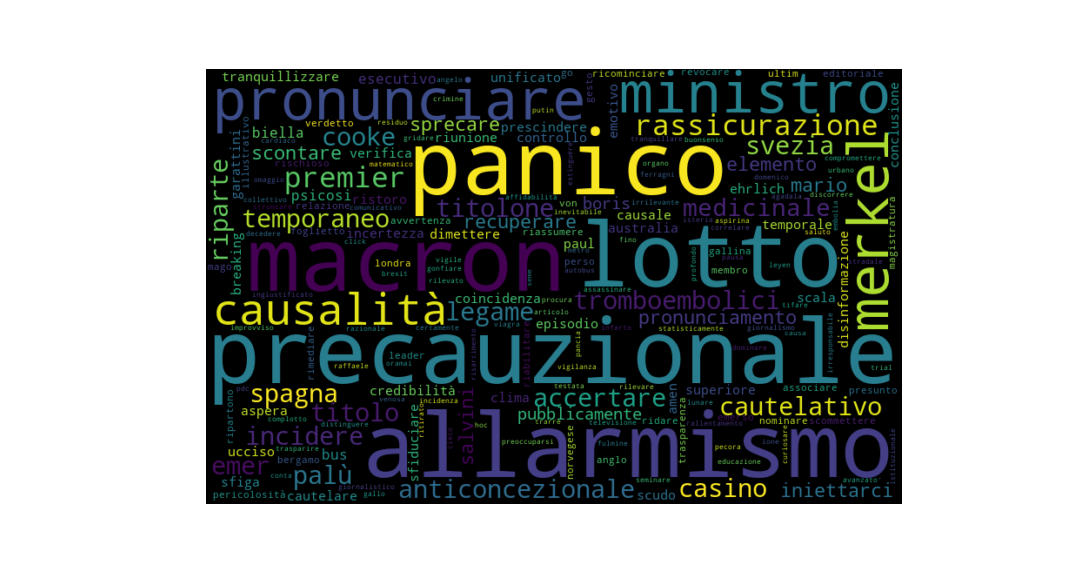
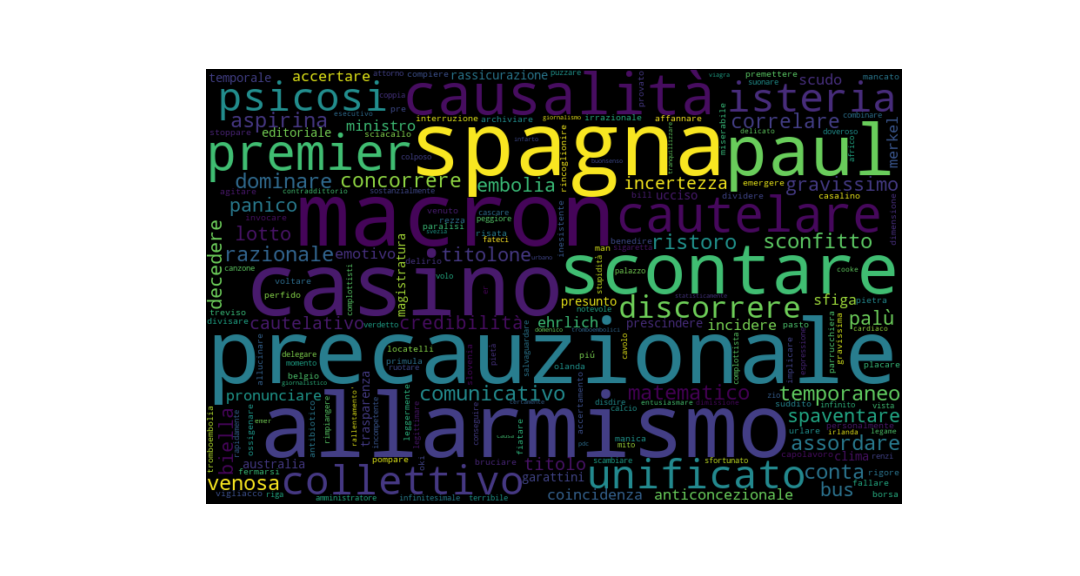
Third commit

Changed region(s): [[0.1833, 0.125, 0.8556, 0.875]]

diff --git a/Analysis.md b/Analysis.md
@@ -32,8 +32,8 @@ Il Grafico 1 mostra la frequenza delle parti del discorso denotando un elevato n
 ### *ANALISI DEL SENTIMENT*
 
 Il sentiment (fig. 2) si distribuisce normalmente ma appare più polarizzato al negativo anche se il suo valore trend non è marcatamente negativo. Si nota tuttavia un andamento lievemente positivo nelle due settimane finali di aprile, circa dal 18 al 30.
-Spiccano (fig. 3) almento due gruppi di giorni con un'alta produzione di tweets/ parole al cui interno appaiono i più alti picchi di sentiment sia negativi che positivi.
-Quattro giorni, annche se non caratterizzati da alta produzione di parole, sono isolati: due ad alta negatività e due ad alta positività. 
+Spiccano almento due gruppi di giorni con i più alti picchi di sentiment sia negativi che positivi.
+
 
 
 ![fig2](/images/02_sentiment.png)
@@ -41,34 +41,32 @@ Quattro giorni, annche se non caratterizzati da alta produzione di parole, sono 
 
 ![fig3](/images/03_tw_day.png)
 
-Andiamo ad analizzarli nel dettaglio e vedere quali parole sono maggiormente caratteristiche, tentando, tramite lo scoring Tf-Idf, una loro tematizzazione (non ho analizzato il Topic Modeling perché la natura dei tweets è già di per sé suddivisa in argomenti, tramite gli hashtags. Inoltre mi interessano le parole più caratteristiche di ogni singolo giorno dei 63 del corpus e creare un modello con 63 topic non ha senso):
+Visualizziamo nel dettaglio i due gruppi e un giorno singolo in base al sentiment e le parole che sono maggiormente caratteristiche, tentando, tramite lo scoring Tf-Idf, una loro tematizzazione (non ho analizzato il Topic Modeling perché la natura dei tweets è già di per sé suddivisa in argomenti, tramite gli hashtags. Inoltre mi interessano le parole più caratteristiche di ogni giorno):
 
-- Gruppo 1) dal 16 al 19 marzo 2021
-
-I primi due giorni sono caratterizzati da alta negatività mentre il 18 il picco va al polo opposto con il più alto livello registrato nel corpus, rappresenta e il giorno successivo si mantiene positivo anche se di meno.
+- Gruppo 1) dal 15 al 17 marzo. Polarizzazione marcatamente negativa. Si registra un' alta percentuale di numero di parole del corpus 18,13 % (il 16 marzo è il giorno con il numero assoluto più alto dell'intero corpus: 11,64 %)
 
 ![w1](/images/Words_g1.png)
 
-- Gruppo 2) dal 06 al 09 aprile 
-
-Il primo giorno è altamente negativo mentre i due successivi sono positivi anche se non marcatamente.
+- Gruppo 2) dal 18 al 20 marzo. Polarizzazione marcatemente positiva. Anche in questo gruppo la percentuale totale delle parole è 11,98 %
 
 ![w2](/images/Words_g2.png)
 
-- Giorni singoli: 15/03 - 26/04 - 03/05
+- 07 aprile. Polarizzazione marcatamente negativa. Percentuale parole 4,71 %.
 
-![w3](/images/Words_1503.png)
-![w4](/images/Words_2604.png)
-![w5](/images/Words_0305.png)
+![w4](/images/Words_0704.png)
 
-![fig4](/images/04_top50_emojis.png)
-
+Di seguito invece la wordcloud delle parole più frequenti dell'intero corpus e di quelle, sempre più frequenti, dei due poli del seintiment, positivo e negativo
 
 ![wc1](/images/WC_Twitter.jpg)
 
 
 ![wc2](/images/POS.png)
 ![wc3](/images/NEG_.png)
+
+
+
+
+![fig4](/images/04_top50_emojis.png)
 
 
 ... under construction
